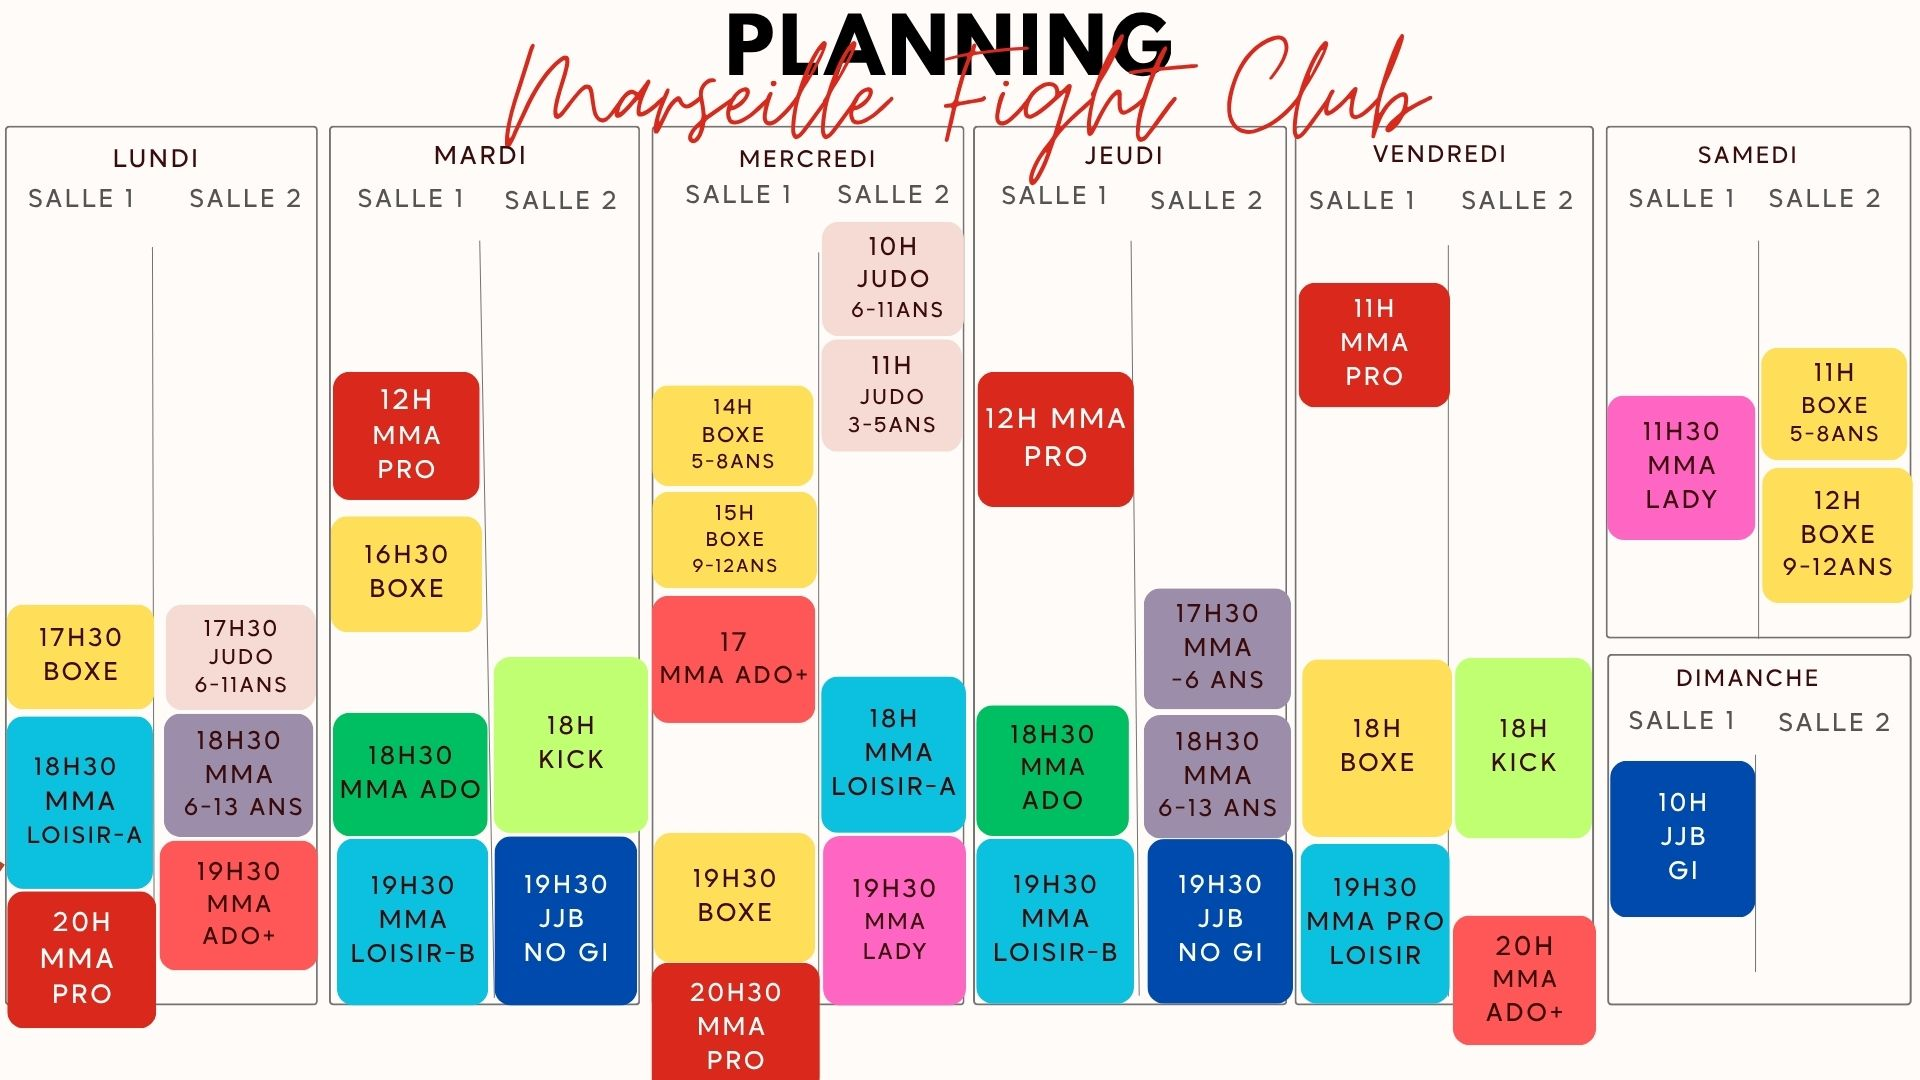
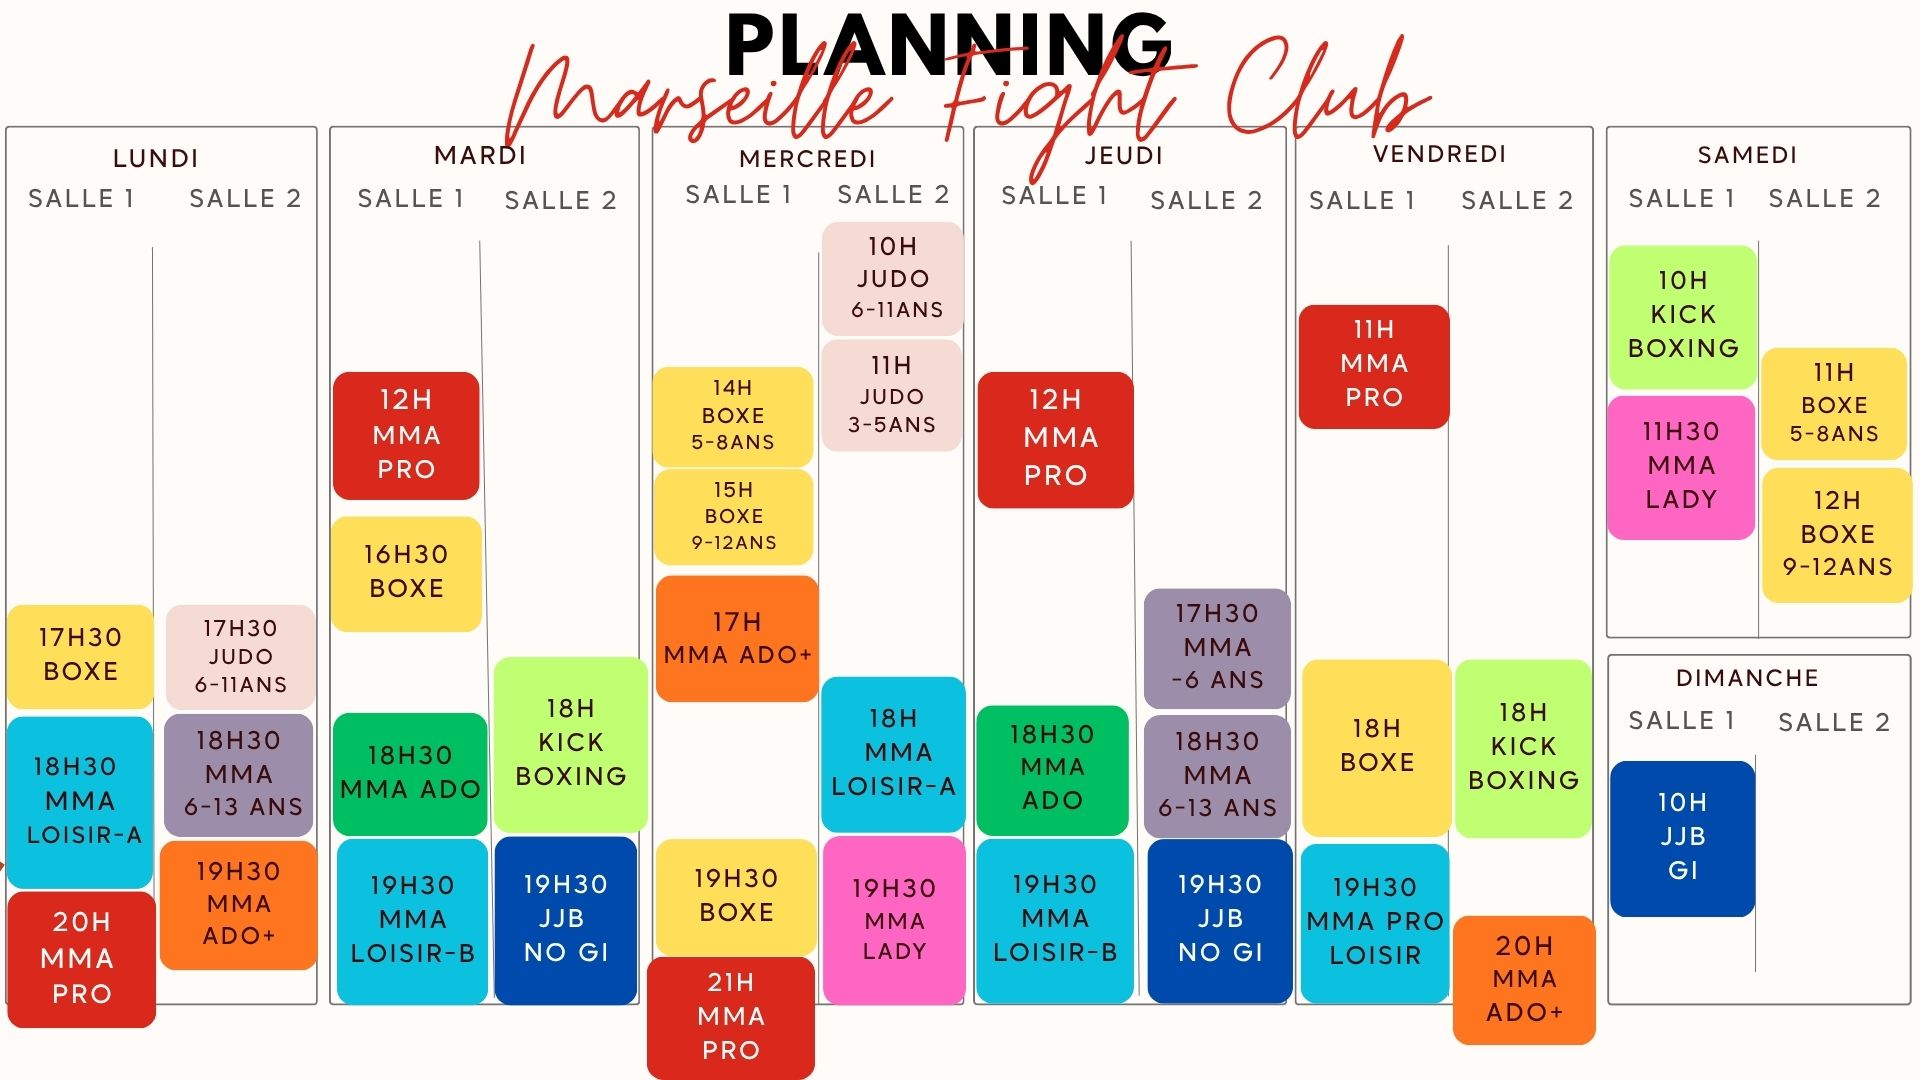
Update Kick Boxing schedule and Venino Instagram link

diff --git a/src/app/layout.tsx b/src/app/layout.tsx
@@ -31,7 +31,7 @@ export const metadata: Metadata = {
     siteName: "Marseille Fight Club",
     images: [
       {
-        url: "/LogoGorill.jpg",
+        url: "/LogoRayan.jpeg",
         width: 800,
         height: 800,
         alt: "Marseille Fight Club Logo",
@@ -44,11 +44,11 @@ export const metadata: Metadata = {
     card: "summary_large_image",
     title: "Marseille Fight Club | MMA, JJB, Grappling & Boxe à Marseille",
     description: "Marseille Fight Club, club de sports de combat à Marseille : MMA, Jiu-Jitsu Brésilien (JJB), Grappling, Boxe Anglaise et Lutte.",
-    images: ["/LogoGorill.jpg"],
+    images: ["/LogoRayan.jpeg"],
   },
   icons: {
-    icon: "/LogoGorill.jpg",
-    apple: "/LogoGorill.jpg",
+    icon: "/LogoRayan.jpeg",
+    apple: "/LogoRayan.jpeg",
   },
   verification: {
     google: "67z8ufL0MJCs-2ow4QuljioLA-xfu26592OPrPJ5q3U",
@@ -78,8 +78,8 @@ export default function RootLayout({
               "@type": "SportsClub",
               "name": "Marseille Fight Club",
               "alternateName": "MFC",
-              "image": "https://marseillefightclub.com/LogoGorill.jpg",
-              "logo": "https://marseillefightclub.com/LogoGorill.jpg",
+              "image": "https://marseillefightclub.com/LogoRayan.jpeg",
+              "logo": "https://marseillefightclub.com/LogoRayan.jpeg",
               "description": "Marseille Fight Club, club de sports de combat à Marseille. MMA, Jiu-Jitsu Brésilien, JJB, Grappling, Boxe Anglaise et Lutte.",
               "address": {
                 "@type": "PostalAddress",

diff --git a/src/components/Footer.tsx b/src/components/Footer.tsx
@@ -43,7 +43,7 @@ export default function Footer() {
             </p>
             <span className="hidden md:inline text-gray-700">|</span>
             <p className="text-gray-500 text-sm">
-              Développé par <a href="https://mickaelcode.com" target="_blank" rel="noopener noreferrer" className="text-cyan-400 hover:text-white transition-colors hover:underline">Mickael</a>
+              Développé & Designé par <a href="https://mickaelcode.com" target="_blank" rel="noopener noreferrer" className="text-cyan-400 hover:text-white transition-colors hover:underline">Mickael</a>
             </p>
           </div>
           <div className="flex gap-4">

diff --git a/src/components/Coaches.tsx b/src/components/Coaches.tsx
@@ -23,14 +23,14 @@ const coaches = [
     role: "Coach JJB",
     image: "/images/coaches/veninoJR.png",
     bio: "Ceinture noire JJB | Champion d’Europe IBJJF No-Gi",
-    instagram: "https://www.instagram.com/firstjiujitsu.capelette/",
+    instagram: "https://www.instagram.com/veninjr/",
     objectPosition: "center",
   },
   {
     name: "Sarah",
     role: "Coach MMA 100% Féminine",
     image: "/images/coaches/coachSarah.jpeg",
-    bio: "Blue Belt JJB ➰",
+    bio: "Blue Belt JJB",
     instagram: "https://www.instagram.com/teamkuja_mma",
     objectPosition: "center 20%",
   },

diff --git a/src/components/Pricing.tsx b/src/components/Pricing.tsx
@@ -105,11 +105,12 @@ const sections: Section[] = [
         tel: "07 83 67 54 75"
       },
       {
-        name: "KICK",
+        name: "KICK BOXING",
         price: "350 €",
         schedule: [
           "Mardi : 18h00 – 19h30",
-          "Vendredi : 18h00 – 19h30"
+          "Vendredi : 18h00 – 19h30",
+          "Samedi : 10h00 – 11h30"
         ],
         tel: "06 14 95 88 49"
       }
